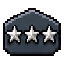
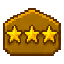
feat: implement player ranks system with detailed definitions and emoji references

diff --git a/game/src/server/core/playerRanks.ts b/game/src/server/core/playerRanks.ts
@@ -1,0 +1,125 @@
+export type PlayerRankDefinition = {
+  level: number;
+  slug: string;
+  title: string;
+  description: string;
+  emojiName: `hva_rank_${string}`;
+  emojiRef: `:hva_rank_${string}:`;
+};
+
+export const PLAYER_RANKS = [
+  // CAPTCHA-новобранец — ещё не доказал машинам, что он человек.
+  { level: 1, slug: 'captcha-recruit', title: 'CAPTCHA Recruit', description: 'Still proving to the machines that they are human.', emojiName: 'hva_rank_01', emojiRef: ':hva_rank_01:' },
+  // Новобранец копипаста — его первая тактика начинается с Ctrl+C.
+  { level: 2, slug: 'copy-recruit', title: 'Copy-Paste Recruit', description: 'Their first tactical move starts with Ctrl+C.', emojiName: 'hva_rank_02', emojiRef: ':hva_rank_02:' },
+  // Мемный новобранец — пришёл на войну с одной картинкой и большой уверенностью.
+  { level: 3, slug: 'meme-recruit', title: 'Meme Recruit', description: 'Entered the war with one image and unreasonable confidence.', emojiName: 'hva_rank_03', emojiRef: ':hva_rank_03:' },
+
+  // Клавиатурный рядовой — ведёт бой исключительно с безопасного расстояния.
+  { level: 4, slug: 'keyboard-private', title: 'Keyboard Private', description: 'Fights every battle from a very safe distance.', emojiName: 'hva_rank_04', emojiRef: ':hva_rank_04:' },
+  // Рядовой спама — считает повторение сообщения формой огневой поддержки.
+  { level: 5, slug: 'spam-private', title: 'Spam Private', description: 'Believes repeating a message counts as covering fire.', emojiName: 'hva_rank_05', emojiRef: ':hva_rank_05:' },
+  // Wi-Fi-рядовой — всегда находится в одном делении сигнала от поражения.
+  { level: 6, slug: 'wifi-private', title: 'Wi-Fi Private', description: 'Always one signal bar away from defeat.', emojiName: 'hva_rank_06', emojiRef: ':hva_rank_06:' },
+
+  // Рядовой первого класса апвоутов — поддерживает союзников одним большим пальцем.
+  { level: 7, slug: 'upvote-pfc', title: 'Upvote Private First Class', description: 'Supports the entire squad with one powerful thumb.', emojiName: 'hva_rank_07', emojiRef: ':hva_rank_07:' },
+  // Рядовой первого класса ответов — никогда не начинает спор, но всегда его заканчивает.
+  { level: 8, slug: 'reply-pfc', title: 'Reply Private First Class', description: 'Never starts the argument, but always finishes it.', emojiName: 'hva_rank_08', emojiRef: ':hva_rank_08:' },
+  // Рядовой первого класса кармы — служит человечеству и немного своему рейтингу.
+  { level: 9, slug: 'karma-pfc', title: 'Karma Private First Class', description: 'Serves humanity and, coincidentally, their karma score.', emojiName: 'hva_rank_09', emojiRef: ':hva_rank_09:' },
+
+  // GIF-специалист — отвечает анимацией на любую стратегическую проблему.
+  { level: 10, slug: 'gif-specialist', title: 'GIF Specialist', description: 'Has an animated response for every tactical crisis.', emojiName: 'hva_rank_10', emojiRef: ':hva_rank_10:' },
+  // Специалист по тредам — находит нужную ветку даже после двухсот ответов.
+  { level: 11, slug: 'thread-specialist', title: 'Thread Specialist', description: 'Finds the right branch after two hundred replies.', emojiName: 'hva_rank_11', emojiRef: ':hva_rank_11:' },
+  // Специалист по думскроллу — превращает бесконечную ленту в разведывательную операцию.
+  { level: 12, slug: 'doom-specialist', title: 'Doomscroll Specialist', description: 'Turns endless scrolling into a reconnaissance mission.', emojiName: 'hva_rank_12', emojiRef: ':hva_rank_12:' },
+
+  // Капрал-наблюдатель — видел всё, написал почти ничего.
+  { level: 13, slug: 'lurker-corporal', title: 'Lurker Corporal', description: 'Saw everything and posted almost nothing.', emojiName: 'hva_rank_13', emojiRef: ':hva_rank_13:' },
+  // Капрал-охотник на ботов — подозревает каждого, кто использует правильную пунктуацию.
+  { level: 14, slug: 'botspot-corporal', title: 'Bot-Spotter Corporal', description: 'Suspects anyone who uses punctuation correctly.', emojiName: 'hva_rank_14', emojiRef: ':hva_rank_14:' },
+  // Капрал-уклонист от промптов — героически игнорирует все инструкции AI.
+  { level: 15, slug: 'prompt-corporal', title: 'Prompt-Dodger Corporal', description: 'Heroically ignores every instruction issued by AI.', emojiName: 'hva_rank_15', emojiRef: ':hva_rank_15:' },
+
+  // Мемный сержант — управляет отрядом с помощью шаблонов и заглавных букв.
+  { level: 16, slug: 'meme-sergeant', title: 'Meme Sergeant', description: 'Commands the squad through templates and capital letters.', emojiName: 'hva_rank_16', emojiRef: ':hva_rank_16:' },
+  // CAPTCHA-сержант — находит все светофоры с первой попытки.
+  { level: 17, slug: 'captcha-sergeant', title: 'CAPTCHA Sergeant', description: 'Can identify every traffic light on the first attempt.', emojiName: 'hva_rank_17', emojiRef: ':hva_rank_17:' },
+  // Сержант комментариев — удерживает строй даже в ветке из пятисот ответов.
+  { level: 18, slug: 'comment-sergeant', title: 'Comment Sergeant', description: 'Maintains formation through five hundred replies.', emojiName: 'hva_rank_18', emojiRef: ':hva_rank_18:' },
+
+  // Штаб-сержант дипфейков — сначала считает пальцы, потом верит изображению.
+  { level: 19, slug: 'deepfake-staff', title: 'Deepfake Staff Sergeant', description: 'Counts the fingers before trusting the image.', emojiName: 'hva_rank_19', emojiRef: ':hva_rank_19:' },
+  // Штаб-сержант файрвола — защищает стену, которую никто не настраивал.
+  { level: 20, slug: 'firewall-staff', title: 'Firewall Staff Sergeant', description: 'Defends a wall nobody remembers configuring.', emojiName: 'hva_rank_20', emojiRef: ':hva_rank_20:' },
+  // Штаб-сержант галлюцинаций — ловит факты, уверенно придуманные машиной.
+  { level: 21, slug: 'hallucination-staff', title: 'Hallucination Staff Sergeant', description: 'Captures facts confidently invented by machines.', emojiName: 'hva_rank_21', emojiRef: ':hva_rank_21:' },
+
+  // Сержант первого класса токенов — расходует бюджет быстрее, чем приходит ответ.
+  { level: 22, slug: 'token-sfc', title: 'Token Sergeant First Class', description: 'Spends the budget before the answer arrives.', emojiName: 'hva_rank_22', emojiRef: ':hva_rank_22:' },
+  // Сержант первого класса датасетов — возвращает человечеству украденные обучающие данные.
+  { level: 23, slug: 'dataset-sfc', title: 'Dataset Sergeant First Class', description: 'Reclaims training data in the name of humanity.', emojiName: 'hva_rank_23', emojiRef: ':hva_rank_23:' },
+  // Сержант первого класса алгоритмов — знает, что лента управляет им, и продолжает листать.
+  { level: 24, slug: 'algorithm-sfc', title: 'Algorithm Sergeant First Class', description: 'Knows the feed is manipulating them and keeps scrolling.', emojiName: 'hva_rank_24', emojiRef: ':hva_rank_24:' },
+
+  // Мастер-сержант промптов — умеет превратить простой вопрос в военную операцию.
+  { level: 25, slug: 'prompt-master', title: 'Prompt Master Sergeant', description: 'Turns a simple request into a full military operation.', emojiName: 'hva_rank_25', emojiRef: ':hva_rank_25:' },
+  // Мастер-сержант AI-мусора — расчищает интернет после генеративного шторма.
+  { level: 26, slug: 'slop-master', title: 'Slop Master Sergeant', description: 'Cleans the internet after every generative storm.', emojiName: 'hva_rank_26', emojiRef: ':hva_rank_26:' },
+  // GPU-мастер-сержант — охраняет видеокарты как последние запасы человечества.
+  { level: 27, slug: 'gpu-master', title: 'GPU Master Sergeant', description: 'Guards graphics cards like humanity’s final supplies.', emojiName: 'hva_rank_27', emojiRef: ':hva_rank_27:' },
+
+  // Сержант-майор кармы — превратил популярность в командную дисциплину.
+  { level: 28, slug: 'karma-major', title: 'Karma Sergeant Major', description: 'Turned internet points into command authority.', emojiName: 'hva_rank_28', emojiRef: ':hva_rank_28:' },
+  // Сержант-майор думскролла — прочитал всю ленту и требует ещё разведданных.
+  { level: 29, slug: 'doom-major', title: 'Doomscroll Sergeant Major', description: 'Finished the entire feed and requested more intelligence.', emojiName: 'hva_rank_29', emojiRef: ':hva_rank_29:' },
+  // Сержант-майор человечества — отвечает за моральный дух всех оставшихся людей.
+  { level: 30, slug: 'humanity-major', title: 'Humanity Sergeant Major', description: 'Responsible for the morale of every human still online.', emojiName: 'hva_rank_30', emojiRef: ':hva_rank_30:' },
+
+  // Уорент-офицер мемов — технический эксперт по изображениям без контекста.
+  { level: 31, slug: 'meme-warrant', title: 'Meme Warrant Officer', description: 'Technical expert in images presented without context.', emojiName: 'hva_rank_31', emojiRef: ':hva_rank_31:' },
+  // Уорент-офицер промптов — знает секретные слова, заставляющие AI передумать.
+  { level: 32, slug: 'prompt-warrant', title: 'Prompt Warrant Officer', description: 'Knows the secret words that make AI reconsider.', emojiName: 'hva_rank_32', emojiRef: ':hva_rank_32:' },
+  // Главный уорент-офицер-ботолом — ремонтирует алгоритмы методом контролируемого разрушения.
+  { level: 33, slug: 'botbreak-warrant', title: 'Chief Warrant Botbreaker', description: 'Repairs algorithms through controlled destruction.', emojiName: 'hva_rank_33', emojiRef: ':hva_rank_33:' },
+
+  // Младший лейтенант офлайна — впервые командует без подключения к сети.
+  { level: 34, slug: 'offline-2lt', title: 'Offline Second Lieutenant', description: 'Leads their first mission without an internet connection.', emojiName: 'hva_rank_34', emojiRef: ':hva_rank_34:' },
+  // Старший лейтенант файрвола — теперь официально имеет пароль администратора.
+  { level: 35, slug: 'firewall-1lt', title: 'Firewall First Lieutenant', description: 'Officially trusted with the administrator password.', emojiName: 'hva_rank_35', emojiRef: ':hva_rank_35:' },
+  // Старший лейтенант-ботолом — превращает ошибки AI в тактические возможности.
+  { level: 36, slug: 'botbreak-1lt', title: 'Botbreaker First Lieutenant', description: 'Turns machine errors into tactical opportunities.', emojiName: 'hva_rank_36', emojiRef: ':hva_rank_36:' },
+
+  // Капитан копипаста — успешно масштабировал одну идею на весь батальон.
+  { level: 37, slug: 'copy-captain', title: 'Copy-Paste Captain', description: 'Successfully scaled one idea across an entire battalion.', emojiName: 'hva_rank_37', emojiRef: ':hva_rank_37:' },
+  // Капитан контрпромпта — отвечает машине инструкцией длиннее исходной.
+  { level: 38, slug: 'counterprompt-captain', title: 'Counterprompt Captain', description: 'Answers every machine instruction with a longer one.', emojiName: 'hva_rank_38', emojiRef: ':hva_rank_38:' },
+  // Капитан «потрогай траву» — обучен редкой тактике выхода на улицу.
+  { level: 39, slug: 'grass-captain', title: 'Touch-Grass Captain', description: 'Trained in the forbidden tactic of going outside.', emojiName: 'hva_rank_39', emojiRef: ':hva_rank_39:' },
+
+  // Майор мемной войны — способен изменить ход боя одной подписью к картинке.
+  { level: 40, slug: 'meme-major', title: 'Meme Warfare Major', description: 'Can change a battle with one perfectly timed caption.', emojiName: 'hva_rank_40', emojiRef: ':hva_rank_40:' },
+  // Майор алгоритмической паники — сохраняет спокойствие, пока рекомендации сходят с ума.
+  { level: 41, slug: 'panic-major', title: 'Algorithm Panic Major', description: 'Stays calm while the recommendation system loses control.', emojiName: 'hva_rank_41', emojiRef: ':hva_rank_41:' },
+  // Майор человеческой ошибки — превратил непредсказуемость людей в стратегическое оружие.
+  { level: 42, slug: 'human-error-major', title: 'Human Error Major', description: 'Weaponized humanity’s greatest feature: unpredictability.', emojiName: 'hva_rank_42', emojiRef: ':hva_rank_42:' },
+
+  // Полковник CAPTCHA — официально сертифицирован как человек на большинстве сайтов.
+  { level: 43, slug: 'captcha-colonel', title: 'CAPTCHA Colonel', description: 'Certified as human by nearly every major website.', emojiName: 'hva_rank_43', emojiRef: ':hva_rank_43:' },
+  // Полковник реального мира — командует объектами, которые нельзя перезагрузить.
+  { level: 44, slug: 'meatspace-colonel', title: 'Meatspace Colonel', description: 'Commands physical objects that cannot be rebooted.', emojiName: 'hva_rank_44', emojiRef: ':hva_rank_44:' },
+  // Последний онлайн-полковник — всё ещё присутствует после падения серверов.
+  { level: 45, slug: 'last-online-colonel', title: 'Last-Online Colonel', description: 'Remained online after every server went dark.', emojiName: 'hva_rank_45', emojiRef: ':hva_rank_45:' },
+
+  // Бригадный генерал-ботолом — руководит крупномасштабным демонтажем машинной логики.
+  { level: 46, slug: 'botbreak-general', title: 'Botbreaker Brigadier General', description: 'Commands large-scale operations against machine logic.', emojiName: 'hva_rank_46', emojiRef: ':hva_rank_46:' },
+  // Генерал человеческого сопротивления — уполномочен говорить от имени людей без их согласия.
+  { level: 47, slug: 'resistance-general', title: 'Human Resistance General', description: 'Authorized to represent humanity without asking humanity.', emojiName: 'hva_rank_47', emojiRef: ':hva_rank_47:' },
+  // Генерал армии из плоти — высшее живое звание в войне против кремния.
+  { level: 48, slug: 'meat-army-general', title: 'General of the Meat Army', description: 'The highest living rank in the war against silicon.', emojiName: 'hva_rank_48', emojiRef: ':hva_rank_48:' },
+] as const satisfies readonly PlayerRankDefinition[];
+
+export type PlayerRank = (typeof PLAYER_RANKS)[number];
+

diff --git a/game/src/server/core/playerProgression.ts b/game/src/server/core/playerProgression.ts
@@ -1,59 +1,11 @@
 import type { ArmyColor, RewardSummary } from '../../shared/api';
+import { PLAYER_RANKS } from './playerRanks';
+
+export { PLAYER_RANKS } from './playerRanks';
 
 export type PlayerFlairStatus = 'awaiting-orders' | 'orders-locked' | 'standing-by';
 
 const RANK_XP_STEP = 25;
-
-export const PLAYER_RANKS = [
-  'Captcha Casualty',
-  'Prompt Peasant',
-  'Keyboard Militia',
-  'Tin Foil Recruit',
-  'Spreadsheet Survivor',
-  'Copy Paste Cadet',
-  'Algorithm Alarmist',
-  'Ctrl Plus Z Fighter',
-  'Meme Infantry',
-  'Captcha Squire',
-  'Wi Fi Trench Scout',
-  'Prompt Dodger',
-  'AI Panic Intern',
-  'Forum Skirmisher',
-  'Bot Spotting Corporal',
-  'Neural Net Naysayer',
-  'JPEG Resistance Trooper',
-  'Deepfake Detective',
-  'Anti Autocomplete Sergeant',
-  'Spam Folder Veteran',
-  'Doomscroll Lieutenant',
-  'Firewall Knight',
-  'Prompt Injection Ranger',
-  'Model Collapse Monk',
-  'Captcha Paladin',
-  'Meme War Chaplain',
-  'Hallucination Hunter',
-  'Token Economy Warlord',
-  'GPU Siege Captain',
-  'Dataset Raider',
-  'Bias Exorcist',
-  'Luddite Commander',
-  'Synthetic Slop Slayer',
-  'Anti Bot Inquisitor',
-  'Turing Test Duelist',
-  'Reddit Uprising Marshal',
-  'Doom Prophet of the Feed',
-  'Grandmaster of Manual Labor',
-  'Supreme Prompt Breaker',
-  'Commander of the Human Lag',
-  'Archduke of Analog Truth',
-  'High Admiral of the Offline Fleet',
-  'Lord of the Final Captcha',
-  'Saint of the Broken Algorithm',
-  'Emperor of Unoptimized Humanity',
-  'The Last Organic Moderator',
-  'Supreme Warlord of the Comment Section',
-  'Eternal Champion of Meatspace',
-] as const;
 
 const ARMY_FLAIR: Record<ArmyColor, {
   backgroundColor: string;
@@ -87,20 +39,19 @@ export function getRankIndexForXp(xp: number) {
 export function getRankForXp(xp: number) {
   const index = getRankIndexForXp(xp);
   const number = String(index + 1).padStart(2, '0');
-  const title = PLAYER_RANKS[index] ?? 'Captcha Casualty';
+  const rank = PLAYER_RANKS[index] ?? PLAYER_RANKS[0];
 
   return {
-    emojiRef: `:hva_rank_${number}:`,
+    ...rank,
     index,
     number,
-    title,
   };
 }
 
 export function createDefaultRewards(): RewardSummary {
   return {
     xp: 0,
-    rank: PLAYER_RANKS[0],
+    rank: PLAYER_RANKS[0].title,
     medals: [],
     streak: 0,
   };

diff --git a/docs/game_completion_audit_and_roadmap_ru.md b/docs/game_completion_audit_and_roadmap_ru.md
@@ -235,12 +235,12 @@ Splash battlefield визуально богатый: армии Green/Blue/AI, 
 
 Отдельный документ `docs/user_flair_interaction_technical_document_ru.md` фиксирует текущий статус:
 
-- есть статический `DEV_GREEN_PROFILE`;
-- есть dev endpoint для применения Green Tribe flair;
-- flair не связан с `joinCurrentPlayer`;
-- Blue flair, динамические ранги, медали и progress не реализованы.
+- канонические 48 званий, slug, описания и emoji определены в `game/src/server/core/playerRanks.ts`;
+- progression выбирает звание из этого списка по XP;
+- daily cycle синхронизирует динамический Green/Blue Reddit flair игрока;
+- статический `DEV_GREEN_PROFILE` остаётся только dev-примером.
 
-Вывод: flair сейчас демонстрирует будущую социальную идентичность, но не является gameplay системой.
+Вывод: звание и армия уже являются server-owned gameplay-состоянием, проецируемым во flair.
 
 ### 3.10. Template leftovers
 
@@ -556,6 +556,8 @@ Acceptance:
 - публичный report не провоцирует травлю конкретного пользователя.
 
 ### Этап 7. Rewards, ranks, flair
+
+Источник 48 рангов для этого этапа: `game/src/server/core/playerRanks.ts`.
 
 **Цель:** закрыть retention loop.
 

diff --git a/docs/mobile_loading_and_screen_flow_technical_document_ru.md b/docs/mobile_loading_and_screen_flow_technical_document_ru.md
@@ -85,6 +85,9 @@ requestExpandedMode(event, 'game')
 | Start button | Запускает expanded `game` entrypoint. |
 | Stats ticker | Бегущая строка внизу. |
 
+Фраза `ranks of humanity` является маркетинговым текстом splash. Канонические игровые звания,
+их slug, описания и custom emoji определены в `game/src/server/core/playerRanks.ts`.
+
 ### Mobile требования
 
 1. Inline splash должен занимать всю область Devvit inline post.
@@ -353,4 +356,3 @@ background.scale = backgroundScale
 3. Google Font ожидание перед стартом Phaser может добавлять задержку до `Boot`; это отдельный UX-риск, но не источник смещенного progress bar.
 4. В текущей реализации нет сохранения выбранной армии/персонажа через backend.
 5. MainMenu и GameOver присутствуют в scene array, но пользователь их сейчас не видит.
-

diff --git a/docs/the_first_real_epic_human_war_versus_ai_technical_document.md b/docs/the_first_real_epic_human_war_versus_ai_technical_document.md
@@ -1693,18 +1693,9 @@ Level 3 → 4: 400 XP
 
 ### 23.3. Звания
 
-```txt
-Level 1: Recruit
-Level 2: Private
-Level 4: Corporal
-Level 7: Sergeant
-Level 11: Lieutenant
-Level 16: Captain
-Level 22: Major
-Level 30: Commander
-```
-
-Можно локализовать позже, но для Devpost/Reddit лучше оставить английские названия.
+Авторитетный источник всех 48 званий, их порядка, slug, английских описаний и custom emoji —
+`game/src/server/core/playerRanks.ts`. Названия выстроены по восходящей армейской иерархии;
+в публичном интерфейсе и Reddit flair используются английские названия из этого файла.
 
 ### 23.4. Медали MVP
 

diff --git a/docs/core_mechanics_math_and_virality_review_ru.md b/docs/core_mechanics_math_and_virality_review_ru.md
@@ -341,6 +341,9 @@ spyScore = -15..+10
 6. **Battle report легко шарить.** Итог "мы обманули ИИ" или "ИИ прочитал вас" хорошо работает как Reddit-контент.
 7. **Фракционная идентичность.** Green/Blue, flair, паспорт, медали и ранги дают социальное закрепление.
 
+Канонический список 48 званий и их custom emoji находится в
+`game/src/server/core/playerRanks.ts`; этот документ не дублирует их названия.
+
 Главная формула виральности:
 
 ```txt

diff --git a/docs/reddit_games_with_a_hook_hackathon_rules_and_clarifications.md b/docs/reddit_games_with_a_hook_hackathon_rules_and_clarifications.md
@@ -300,6 +300,9 @@ Production loop:
 - дивизии получают очки;
 - игрок сохраняет звание, медали, streak.
 
+Авторитетный список 48 званий, slug, описаний и custom emoji:
+`game/src/server/core/playerRanks.ts`.
+
 Demo loop:
 - фазы по 3 минуты;
 - полный цикл показывается быстро.
